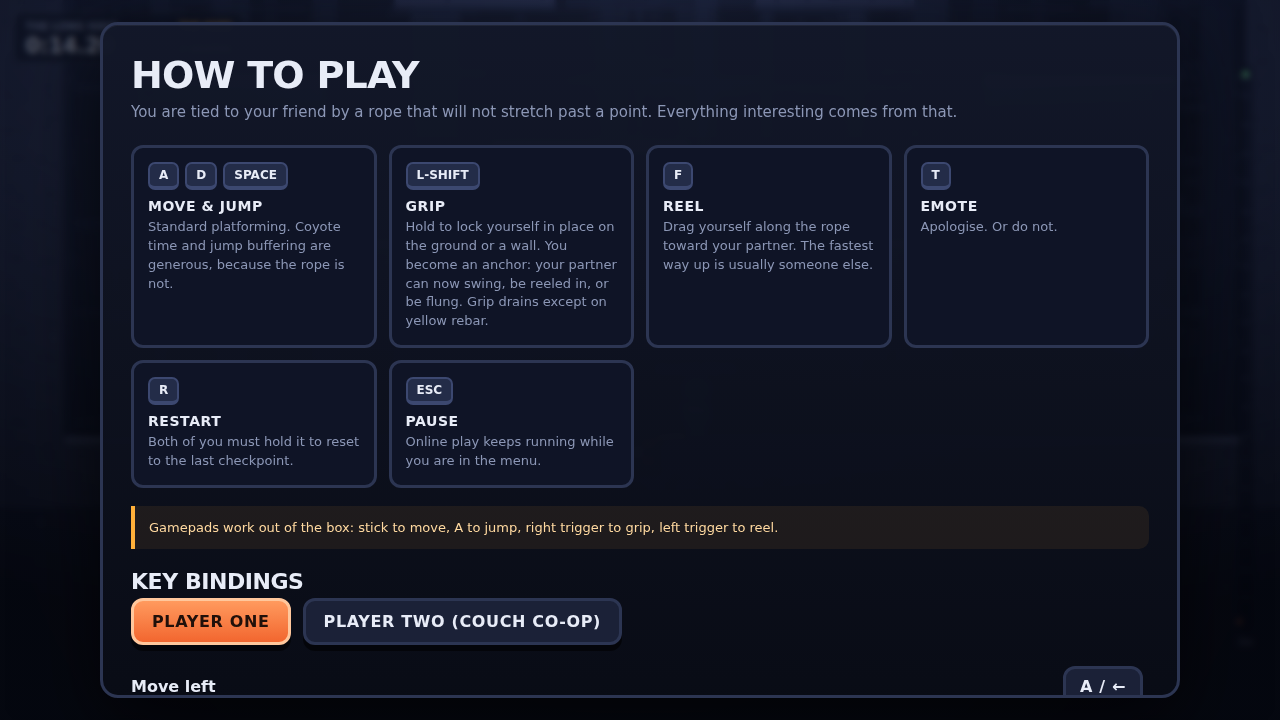
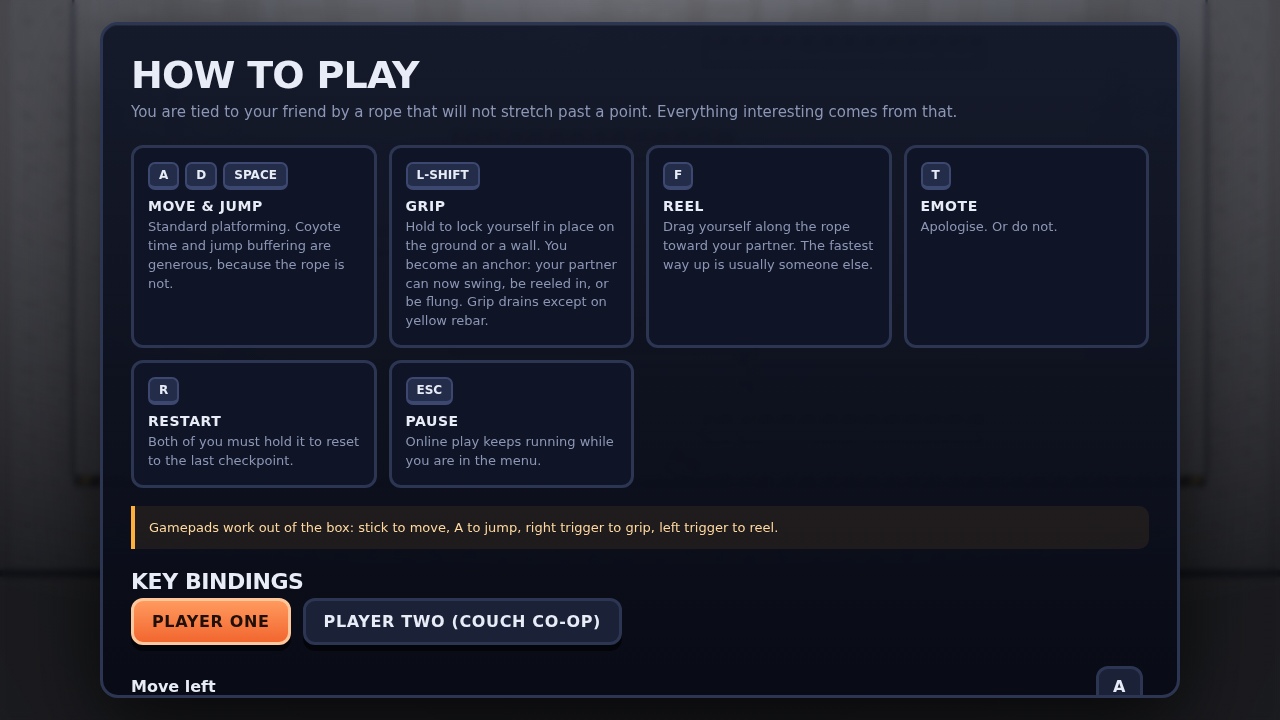
Photograph the game from the game
The README's screenshots and the store page's screenshots were taken by
hand, once, and then the art direction was rewritten underneath them.
Nothing complained, because a stale PNG looks exactly like a fresh one —
the README has been showing a game that no longer exists for as long as
the new palette has. `npm run shots` makes them a build artefact instead
of a memory: it drives the real single-file build in a real browser, the
same one the e2e suite uses, and writes 1280x720 for the docs and Steam's
1920x1080 for the store in one pass.

Getting an honest picture took four passes, and each thing that was wrong
with it was wrong in an interesting way.

The crate was off the bottom of every frame. That is correct behaviour —
it hangs a full rope-length below a pair standing on a ledge — and it
means the subject of the game was not in any picture of it.

The hero shot read `27 DEATHS` at twelve seconds, because staging a shot
means teleporting the pair around and teleporting them kills them. That is
a screenshot of the screenshot script.

And the results card is the one picture a shopper actually reads, so the
numbers on it have to be real. Finishing a freshly staged run photographs
a twelve-second flawless delivery. Letting the *bots* play for three and a
half minutes first was no better: they play carefully, so the card still
came out all zeroes, which says "nothing happens in this game" — a worse
lie than the one it replaced. So the run behind that screenshot is played
[…]

Changed region(s): [[0.0, 0.0, 1.0, 0.7944], [0.8125, 0.9167, 0.875, 0.9778]]

diff --git a/README.md b/README.md
@@ -88,6 +88,7 @@ Both players must hold `R` to reset to the last checkpoint.
 | `npm run levels` | Re-generates the chunk library from `tools/gen_chunks.py` |
 | `npm run calibrate` | Measures what a jump can reach, for the level design rules |
 | `npm run art` | Regenerates all store art and installer icons |
+| `npm run shots` | Re-photographs the game for the README and the store page |
 | `npm run steam:config` | Regenerates the Steamworks achievement/stat/depot config |
 | `npm run dist:win` / `dist:linux` / `dist:mac` | Builds the Steam-ready desktop app |
 
